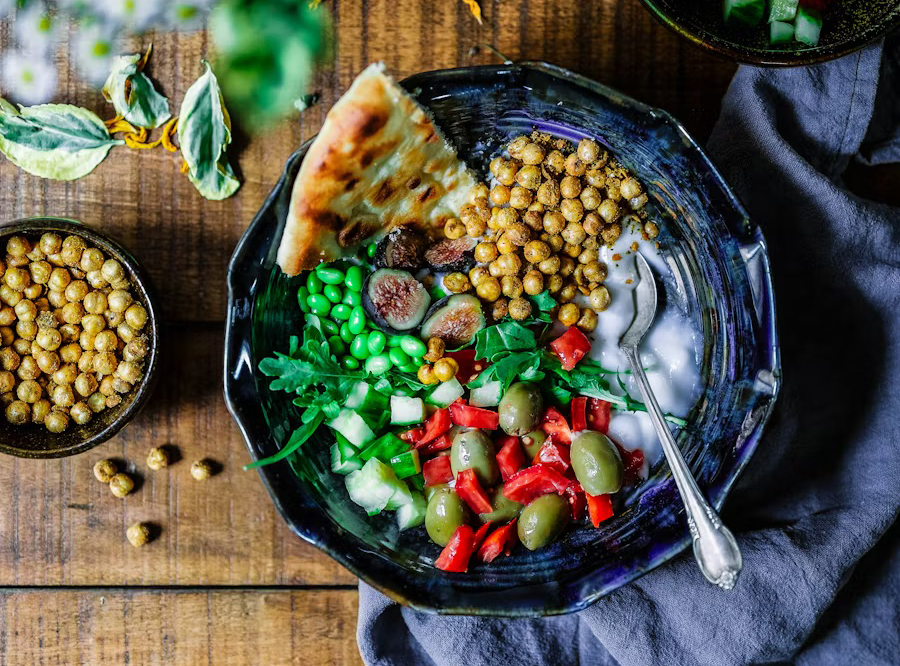
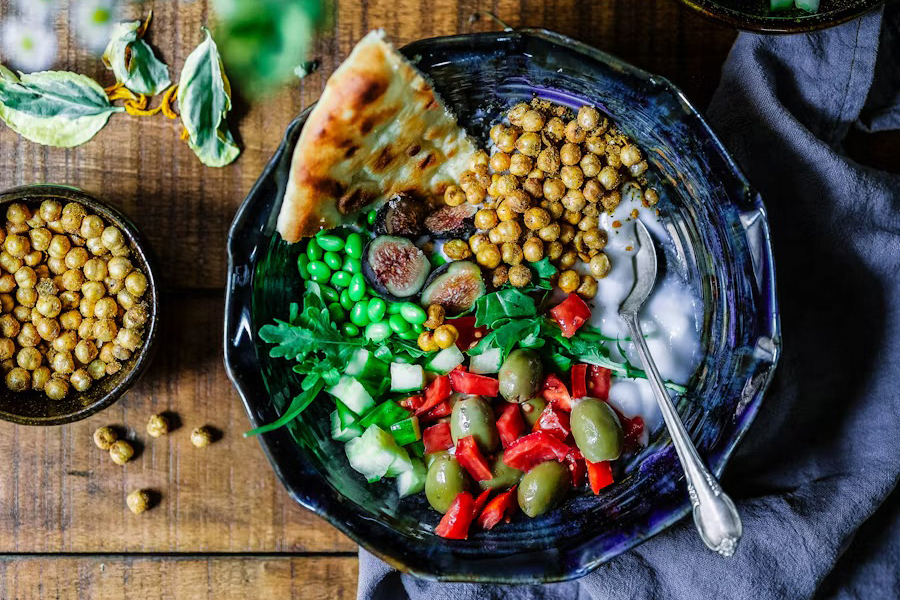
menu-gallery
FotosFinales

diff --git a/menu.html b/menu.html
@@ -24,77 +24,77 @@
         <h1 class="text-center mb-4">OUR MENU</h1>
         <div class="row g-3">
             <div class="col-12 col-sm-6 col-md-4">
-                <a href="media/menu-gallery/1.jpeg" data-lightbox="galeria" data-title="Plato 1">
+                <a href="media/menu-gallery-carrousel/c1.jpeg" data-lightbox="galeria" data-title="Plato 1">
                     <img src="media/menu-gallery/1.jpeg" class="img-fluid" alt="Plato 1">
                 </a>
             </div>
             <div class="col-12 col-sm-6 col-md-4">
-                <a href="media/menu-gallery/2.jpeg" data-lightbox="galeria" data-title="Plato 2">
+                <a href="media/menu-gallery-carrousel/c2.jpeg" data-lightbox="galeria" data-title="Plato 2">
                     <img src="media/menu-gallery/2.jpeg" class="img-fluid" alt="Plato 2">
                 </a>
             </div>
             <div class="col-12 col-sm-12 col-md-4">
-                <a href="media/menu-gallery/3.jpeg" data-lightbox="galeria" data-title="Plato 3">
+                <a href="media/menu-gallery-carrousel/c3.jpeg" data-lightbox="galeria" data-title="Plato 3">
                     <img src="media/menu-gallery/3.jpeg" class="img-fluid" alt="Plato 3">
                 </a>
             </div>
             <div class="col-12 col-sm-6 col-md-6">
-                <a href="media/menu-gallery/4.jpeg" data-lightbox="galeria" data-title="Plato 4">
+                <a href="media/menu-gallery-carrousel/c4.jpeg" data-lightbox="galeria" data-title="Plato 4">
                     <img src="media/menu-gallery/4.jpeg" class="img-fluid" alt="Plato 4">
                 </a>
             </div>
             <div class="col-12 col-sm-6 col-md-6">
-                <a href="media/menu-gallery/5.jpeg" data-lightbox="galeria" data-title="Plato 5">
+                <a href="media/menu-gallery-carrousel/c5.jpeg" data-lightbox="galeria" data-title="Plato 5">
                     <img src="media/menu-gallery/5.jpeg" class="img-fluid" alt="Plato 5">
                 </a>
             </div>
             <div class="col-12 col-sm-12 col-md-4">
-                <a href="media/menu-gallery/6.jpeg" data-lightbox="galeria" data-title="Plato 6">
+                <a href="media/menu-gallery-carrousel/c6.jpeg" data-lightbox="galeria" data-title="Plato 6">
                     <img src="media/menu-gallery/6.jpeg" class="img-fluid" alt="Plato 6">
                 </a>
             </div>
             <div class="col-12 col-sm-6 col-md-4">
-                <a href="media/menu-gallery/7.jpeg" data-lightbox="galeria" data-title="Plato 7">
+                <a href="media/menu-gallery-carrousel/c7.jpeg" data-lightbox="galeria" data-title="Plato 7">
                     <img src="media/menu-gallery/7.jpeg" class="img-fluid" alt="Plato7">
                 </a>
             </div>
             <div class="col-12 col-sm-6 col-md-4">
-                <a href="media/menu-gallery/8.jpeg" data-lightbox="galeria" data-title="Plato 8">
+                <a href="media/menu-gallery-carrousel/c8.jpeg" data-lightbox="galeria" data-title="Plato 8">
                     <img src="media/menu-gallery/8.jpeg" class="img-fluid" alt="Plato 8">
                 </a>
             </div>
             <div class="col-12 col-sm-12 col-md-6">
-                <a href="media/menu-gallery/9.jpeg" data-lightbox="galeria" data-title="Plato 9">
+                <a href="media/menu-gallery-carrousel/c9.jpeg" data-lightbox="galeria" data-title="Plato 9">
                     <img src="media/menu-gallery/9.jpeg" class="img-fluid" alt="Plato 9">
                 </a>
             </div>
             <div class="col-12 col-sm-6 col-md-6">
-                <a href="media/menu-gallery/10.jpeg" data-lightbox="galeria" data-title="Plato 10">
+                <a href="media/menu-gallery-carrousel/c10.jpeg" data-lightbox="galeria" data-title="Plato 10">
                     <img src="media/menu-gallery/10.jpeg" class="img-fluid" alt="Plato 10">
                 </a>
             </div>
             <div class="col-12 col-sm-6 col-md-4">
-                <a href="media/menu-gallery/11.jpeg" data-lightbox="galeria" data-title="Plato 11">
+                <a href="media/menu-gallery-carrousel/c11.jpeg" data-lightbox="galeria" data-title="Plato 11">
                     <img src="media/menu-gallery/11.jpeg" class="img-fluid" alt="Plato 11">
                 </a>
             </div>
             <div class="col-12 col-sm-12 col-md-4">
-                <a href="media/menu-gallery/12.jpeg" data-lightbox="galeria" data-title="Plato 12">
+                <a href="media/menu-gallery-carrousel/c12.jpeg" data-lightbox="galeria" data-title="Plato 12">
                     <img src="media/menu-gallery/12.jpeg" class="img-fluid" alt="Plato 12">
                 </a>
             </div>
             <div class="col-12 col-sm-6 col-md-4">
-                <a href="media/menu-gallery/13.jpeg" data-lightbox="galeria" data-title="Plato 13">
+                <a href="media/menu-gallery-carrousel/c13.jpeg" data-lightbox="galeria" data-title="Plato 13">
                     <img src="media/menu-gallery/13.jpeg" class="img-fluid" alt="Plato 13">
                 </a>
             </div>
             <div class="col-12 col-sm-6 col-md-6">
-                <a href="media/menu-gallery/14.jpeg" data-lightbox="galeria" data-title="Plato 14">
+                <a href="media/menu-gallery-carrousel/c14.jpeg" data-lightbox="galeria" data-title="Plato 14">
                     <img src="media/menu-gallery/14.jpeg" class="img-fluid" alt="Plato 14">
                 </a>
             </div>
             <div class="col-12 col-sm-12 col-md-6">
-                <a href="media/menu-gallery/15.jpeg" data-lightbox="galeria" data-title="Plato 15">
+                <a href="media/menu-gallery-carrousel/c15.jpeg" data-lightbox="galeria" data-title="Plato 15">
                     <img src="media/menu-gallery/15.jpeg" class="img-fluid" alt="Plato 15">
                 </a>
             </div>
